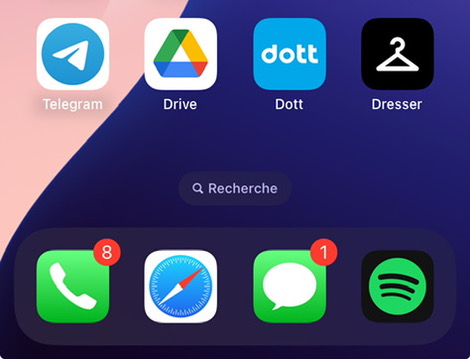
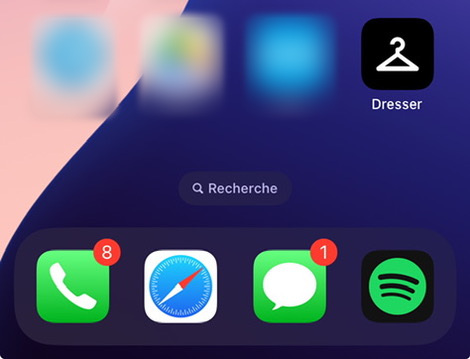
update readme

Changed region(s): [[0.0596, 0.0306, 0.7149, 0.337]]

diff --git a/README.md b/README.md
@@ -2,7 +2,7 @@
 
 **Dresser** is an iPhone application project by **Mehdi Soulami** for organizing a digital wardrobe and planning outfits.
 
-> Screenshots are from the actual iPhone application. A video walkthrough will be added when available. Features below are based on the provided screenshots; details that cannot be confirmed from them are not assumed.
+> Screenshots are from the actual iPhone application. Other applications on the iPhone home screen (Telegram, Drive, and Dott) are blurred to keep the focus on Dresser. A video walkthrough will be added when available. Features below are based on the provided screenshots; details that cannot be confirmed from them are not assumed.
 
 ## Application screenshots
 
@@ -10,9 +10,9 @@
 |:--:|:--:|
 | <img src="docs/images/dresser-wardrobe.jpeg" width="270" alt="Wardrobe screen with search and garments"> | <img src="docs/images/dresser-saved-outfits.jpeg" width="270" alt="Saved Outfits screen with Monday look"> |
 
-| Home screen icon | Launch screen |
+| Home screen (other app icons blurred) | Launch screen |
 |:--:|:--:|
-| <img src="docs/images/dresser-home-screen.jpeg" width="270" alt="Dresser hanger app icon on iPhone home screen"> | <img src="docs/images/dresser-splash-screen.jpeg" width="270" alt="Minimalist Dresser launch screen"> |
+| <img src="docs/images/dresser-home-screen.jpeg" width="270" alt="Dresser app icon in focus; Telegram, Drive, and Dott blurred on iPhone home screen"> | <img src="docs/images/dresser-splash-screen.jpeg" width="270" alt="Minimalist Dresser launch screen"> |
 
 ## Features visible in the app
 
@@ -38,6 +38,9 @@ The exact implementation language and minimum supported iOS version should be ch
 2. On macOS, open `Dresser.xcodeproj` in Xcode.
 3. Choose a simulator or a connected iPhone, review signing, and build/run.
 
+## Video demo
+
+_A guided walkthrough will be added here when available._
 
 ## Author
 
